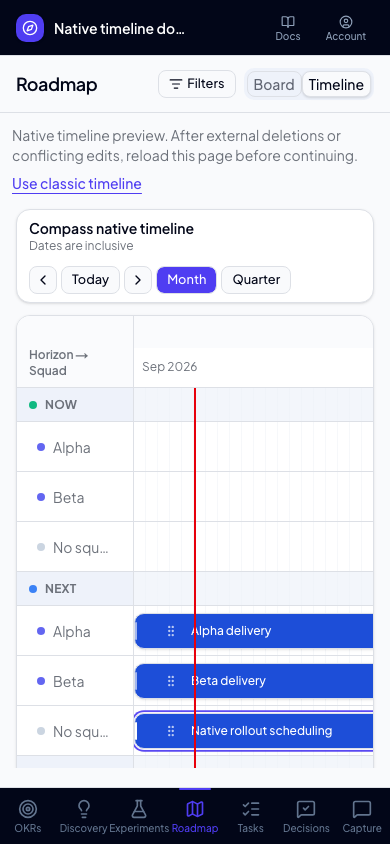
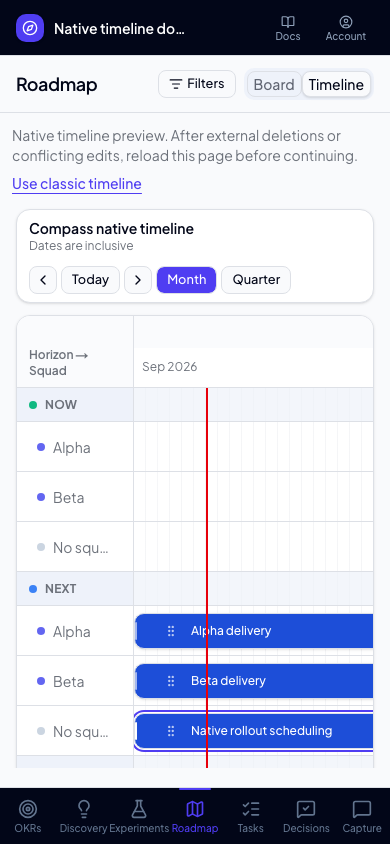
fix: respect workspace theme in native roadmap timeline

Changed region(s): [[0.4923, 0.4621, 0.5538, 0.8934]]

diff --git a/e2e/functional/specs/native-timeline-rollout.spec.ts b/e2e/functional/specs/native-timeline-rollout.spec.ts
@@ -69,6 +69,67 @@ test.describe("Native timeline limited rollout", () => {
     } finally { await pool.end(); }
   });
 
+  for (const theme of ["dark", "light"] as const) {
+    for (const viewport of [{ width: 1280, height: 800 }, { width: 390, height: 844 }]) {
+      test(`native timeline ${theme} appearance at ${viewport.width}px`, async ({ page }) => {
+        await page.setViewportSize(viewport);
+        await page.addInitScript((value) => localStorage.setItem("compass-theme", value), theme);
+        await page.goto(`${nativeBase}/roadmap?view=timeline`);
+        await expect(page.locator("html")).toHaveAttribute("data-theme", theme);
+        const title = page.getByText("Compass native timeline", { exact: true });
+        await expect(title).toBeVisible();
+        // Resolve the actual painted surface, including transparent ancestors,
+        // and convert CSS colors (including oklch) through the browser canvas.
+        const contrast = await title.evaluate((element) => {
+          const canvas = document.createElement("canvas");
+          canvas.width = canvas.height = 1;
+          const context = canvas.getContext("2d")!;
+          function luminance(color: string) {
+            context.clearRect(0, 0, 1, 1);
+            context.fillStyle = color;
+            context.fillRect(0, 0, 1, 1);
+            const rgb = Array.from(context.getImageData(0, 0, 1, 1).data).slice(0, 3).map((value) => {
+              const channel = value / 255;
+              return channel <= 0.04045 ? channel / 12.92 : ((channel + 0.055) / 1.055) ** 2.4;
+            });
+            return rgb[0] * 0.2126 + rgb[1] * 0.7152 + rgb[2] * 0.0722;
+          }
+          let surface: Element | null = element;
+          while (surface && getComputedStyle(surface).backgroundColor === "rgba(0, 0, 0, 0)") surface = surface.parentElement;
+          const foreground = luminance(getComputedStyle(element).color);
+          const background = luminance(getComputedStyle(surface!).backgroundColor);
+          return (Math.max(foreground, background) + 0.05) / (Math.min(foreground, background) + 0.05);
+        });
+        expect(contrast, "timeline title contrast against its painted toolbar").toBeGreaterThanOrEqual(4.5);
+        const cardColor = await page.evaluate(() => {
+          const probe = document.createElement("div");
+          probe.style.backgroundColor = "var(--card)";
+          document.body.append(probe);
+          const value = getComputedStyle(probe).backgroundColor;
+          probe.remove();
+          return value;
+        });
+        await expect(title.locator("../..")).toHaveCSS("background-color", cardColor);
+        const scroll = page.getByTestId("native-timeline-scroll");
+        await expect(scroll.locator("../..")).toHaveCSS("background-color", cardColor);
+        await expect(scroll.locator("../div").first()).toHaveCSS("background-color", cardColor);
+        await expect(scroll.locator(":scope > div > div").first()).toHaveCSS("background-color", cardColor);
+        await expect(page.locator("#unscheduled-items-panel [data-slot=badge]").first()).toHaveCSS("background-color", cardColor);
+        const grid = page.getByTestId("timeline-grid");
+        expect(await grid.evaluate((element) => getComputedStyle(element).backgroundImage)).not.toContain("226, 232, 240");
+        await scrollToFixtureMonth(page);
+        await page.screenshot({ path: `public/screenshots/docs/native-timeline-${theme}-${viewport.width}.png`, fullPage: true, style: "nextjs-portal { display: none }" });
+        await page.getByRole("button", { name: "Edit dates for Beta delivery", exact: true }).click();
+        await expect(page.getByRole("dialog").getByLabel("Start", { exact: true })).toHaveValue(start);
+        await expect(page.getByRole("dialog").getByRole("combobox")).toHaveCSS("background-color", cardColor);
+        await expect(page.getByRole("dialog").getByLabel("Start", { exact: true })).toHaveCSS("background-color", cardColor);
+        await expect(page.getByRole("dialog").getByLabel("End", { exact: true })).toHaveCSS("background-color", cardColor);
+        await page.screenshot({ path: `public/screenshots/docs/native-timeline-editor-${theme}-${viewport.width}.png`, style: "nextjs-portal { display: none }" });
+        await page.keyboard.press("Escape");
+      });
+    }
+  }
+
   test("native scheduling persists, classic fallback and board remain available", async ({ page }) => {
     await page.goto(`${nativeBase}/roadmap`);
     await page.getByRole("button", { name: "Add item", exact: true }).nth(1).click();

diff --git a/components/roadmap/native-timeline/native-timeline.tsx b/components/roadmap/native-timeline/native-timeline.tsx
@@ -258,7 +258,7 @@ export function NativeTimeline(props: TimelineEngineProps) {
         stopDragPointerTracking();
       }}
     >
-      <section data-testid="timeline-engine-native" className="flex min-w-0 flex-col gap-3 p-1 motion-reduce:[&_#unscheduled-items-panel_[data-slot=card]]:transition-none [&_#unscheduled-items-panel_.text-muted-foreground]:text-foreground [&_#unscheduled-items-panel_[data-slot=badge]]:border-border-interactive [&_#unscheduled-items-panel_[data-slot=badge]]:bg-white [&_#unscheduled-items-panel_[data-slot=badge]]:text-foreground">
+      <section data-testid="timeline-engine-native" className="flex min-w-0 flex-col gap-3 p-1 motion-reduce:[&_#unscheduled-items-panel_[data-slot=card]]:transition-none [&_#unscheduled-items-panel_.text-muted-foreground]:text-foreground [&_#unscheduled-items-panel_[data-slot=badge]]:border-border-interactive [&_#unscheduled-items-panel_[data-slot=badge]]:bg-card [&_#unscheduled-items-panel_[data-slot=badge]]:text-foreground">
         <TimelineToolbar
           engineLabel="Compass native timeline"
           zoom={controller.zoom}
@@ -266,9 +266,9 @@ export function NativeTimeline(props: TimelineEngineProps) {
           onShift={controller.shiftViewport}
           onToday={controller.jumpToday}
         />
-        <div className="overflow-hidden rounded-xl border bg-white shadow-sm">
+        <div className="overflow-hidden rounded-xl border bg-card shadow-sm">
           <div className="grid" style={{ gridTemplateColumns: `clamp(112px, 30vw, ${LABEL_WIDTH}px) minmax(0, 1fr)` }}>
-            <div className="border-r bg-white">
+            <div className="border-r bg-card">
               <div className="flex items-end border-b bg-muted/30 px-3 pb-2 text-xs font-semibold text-muted-foreground" style={{ height: HEADER_HEIGHT }}>
                 Horizon → Squad
               </div>
@@ -311,7 +311,7 @@ export function NativeTimeline(props: TimelineEngineProps) {
                   data-total-card-count={itemLayouts.length}
                   style={{
                     height: bodyHeight,
-                    backgroundImage: `repeating-linear-gradient(to right, transparent 0, transparent ${dayWidth - 1}px, rgb(226 232 240 / .6) ${dayWidth}px)`,
+                    backgroundImage: `repeating-linear-gradient(to right, transparent 0, transparent ${dayWidth - 1}px, color-mix(in oklab, var(--border) 60%, transparent) ${dayWidth}px)`,
                   }}
                 >
                   {rows.map((row) => (
@@ -415,7 +415,7 @@ function NativeHeaders({ start, end, width }: { start: CalendarDate; end: Calend
     return groups;
   }, new Map<string, { start: CalendarDate; end: CalendarDate; label: string }>()).values());
   return (
-    <div className="relative border-b bg-white" style={{ height: HEADER_HEIGHT }}>
+    <div className="relative border-b bg-card" style={{ height: HEADER_HEIGHT }}>
       {quarters.map((quarter) => (
         <div key={`q-${quarter.start}`} className="absolute top-0 flex h-8 items-center border-r bg-muted/30 px-2 text-xs font-semibold text-text-subtle" style={{ left: dateToPosition(quarter.start, start, end, width), width: Math.max(1, dateToPosition(quarter.end, start, end, width) - dateToPosition(quarter.start, start, end, width)) }}>
           {quarter.label}

diff --git a/components/roadmap/native-timeline/timeline-shared.tsx b/components/roadmap/native-timeline/timeline-shared.tsx
@@ -42,7 +42,7 @@ export function TimelineToolbar({
   engineLabel: string;
 }) {
   return (
-    <div className="flex flex-wrap items-center justify-between gap-3 rounded-xl border bg-white px-3 py-2 shadow-sm">
+    <div className="flex flex-wrap items-center justify-between gap-3 rounded-xl border bg-card px-3 py-2 shadow-sm">
       <div>
         <p className="text-sm font-semibold text-foreground">{engineLabel}</p>
         <p className="text-xs text-muted-foreground">Dates are inclusive</p>
@@ -188,17 +188,17 @@ function EditDatesForm({ item, open, disabled, start, end, onOpenChange, onSave 
         {disabled ? <p role="status" className="rounded-md bg-status-warning-surface p-2 text-sm text-status-warning">Reconciliation required. Reload this page before another edit.</p> : null}
         <label className="grid gap-1 text-xs font-medium">
           Horizon
-          <select disabled={disabled} className="h-11 rounded-lg border px-2 text-sm" value={draftHorizon} onChange={(event) => setDraftHorizon(event.target.value as Horizon)}>
+          <select disabled={disabled} className="h-11 rounded-lg border bg-card px-2 text-sm text-foreground" value={draftHorizon} onChange={(event) => setDraftHorizon(event.target.value as Horizon)}>
             {EDITABLE_HORIZONS.filter((horizon) => isInternalTimelineDestination(item.horizon, horizon)).map((horizon) => <option key={horizon} value={horizon}>{HORIZON_META[horizon].label}</option>)}
           </select>
         </label>
         <label className="grid gap-1 text-xs font-medium">
           Start
-          <input disabled={disabled} className="h-9 rounded-lg border px-2 text-sm" type="date" value={draftStart} onChange={(event) => setDraftStart(event.target.value)} />
+          <input disabled={disabled} className="h-9 rounded-lg border bg-card px-2 text-sm text-foreground" type="date" value={draftStart} onChange={(event) => setDraftStart(event.target.value)} />
         </label>
         <label className="grid gap-1 text-xs font-medium">
           End
-          <input disabled={disabled} className="h-9 rounded-lg border px-2 text-sm" type="date" min={draftStart} value={draftEnd} onChange={(event) => setDraftEnd(event.target.value)} />
+          <input disabled={disabled} className="h-9 rounded-lg border bg-card px-2 text-sm text-foreground" type="date" min={draftStart} value={draftEnd} onChange={(event) => setDraftEnd(event.target.value)} />
         </label>
         <DialogFooter showCloseButton>
           <Button

diff --git a/docs/content/04-roadmap.md b/docs/content/04-roadmap.md
@@ -52,6 +52,8 @@ The `rbcodelabs/compass` workspace uses the **Compass native timeline** by defau
 
 The native chart groups items by horizon and squad, with separate tracks for overlapping bars. Use **Month** or **Quarter** to change the visible planning range, **Previous / Next** to navigate, and **Today** to return to the current period. Scroll horizontally to reach dates outside the visible area.
 
+The native timeline follows your workspace's Light, Dark, or System appearance preference, including its calendar, squad labels, backlog, and date editor. Horizon colors remain consistent across themes.
+
 Drag the **dotted move handle** just inside a bar's left edge to move its dates. Slim grips on the **left and right borders** resize the start and end dates; their invisible hit areas are wider than the visible grips and stay separate from the move handle. The compact controls leave more room for the title, which opens the item's details when clicked. Narrow bars hide status and overlap badges to prioritize the title; both remain available to screen readers, and delivery status is also shown in the item's details.
 
 Keyboard controls and an **Edit dates** dialog offer alternatives to dragging: focus the move handle and use **Alt + Left/Right** to shift dates, or **D** to open the date dialog; use **Left/Right** on either resize grip to adjust that edge. Narrow bars keep the dialog when there is not enough space for separate controls. Dates are inclusive, and changes save immediately. Items without dates use placeholder dates until scheduled. Launching and Launched items are display-only in this chart; use the existing launch workflow to manage them.
